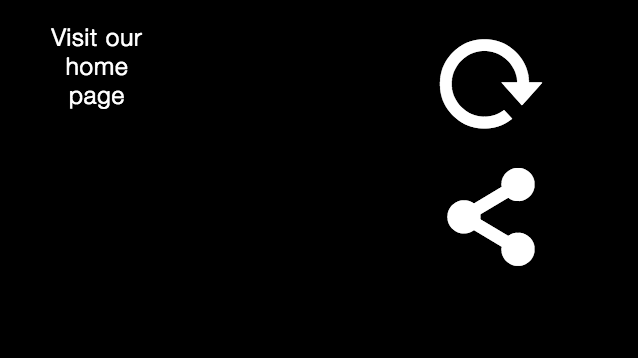
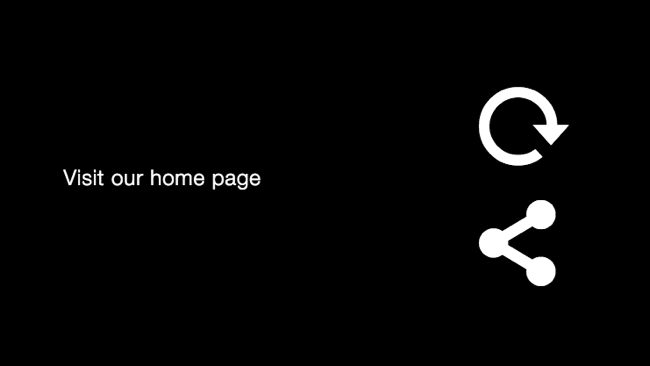
update Custom Endscreen to use relative positioning

diff --git a/en/perform/brightcove-player/guides/custom-endscreen-plugin.html b/en/perform/brightcove-player/guides/custom-endscreen-plugin.html
@@ -131,6 +131,8 @@
       <div id="customize" class="section">
         <h2>Customize the endscreen</h2>
         <p>You can use CSS to customize the appearance of your endscreen. Below are a few examples of what you can do. Make sure to test your implementations to ensure they work with your page content.</p>
+        <p class="BCL-aside">The code in this section uses relative positioning, which can be used in conjunction with a responsive player. To make your player responsive, see the <a href="../../brightcove-player/samples/responsive-sizing.html">Responsive Sizing</a> document or use the <strong>Players</strong> module to set the <strong>Sizing</strong> setting to <strong>Responsive</strong>.</p>
+        
         <p>This is what the default end screen looks like. By default, you will get a restart video button and a social sharing button.</p>
         <div><img src="assets/custom-endscreen/endscreen-default.png" alt="default custom endscreen"></div>
 
@@ -139,10 +141,12 @@
         <p>Instead, since these buttons are XML text files, you can change their size by using the <code>font-size</code> CSS property.</p>
         <p>Use the code below to make both buttons smaller:</p>
         <p><code data-gist-id="869cedee617b8f6a504b" data-gist-hide-footer="true" data-gist-line="49-51"></code></p>
-        <p>Or you can control the size of each button independently:</p>
-        <p><code data-gist-id="869cedee617b8f6a504b" data-gist-hide-footer="true" data-gist-line="54-59"></code></p>
+        <p>Using a percentage value should have the same effect:</p>
+        <p><code data-gist-id="869cedee617b8f6a504b" data-gist-hide-footer="true" data-gist-line="177-179"></code></p>
         <p>The result should look like this:</p>
         <div><img src="assets/custom-endscreen/endscreen-small-buttons.png" alt="small endscreen buttons"></div>
+        <p>Or you can control the size of each button independently:</p>
+        <p><code data-gist-id="869cedee617b8f6a504b" data-gist-hide-footer="true" data-gist-line="54-59"></code></p>    
 
         <h3>Move content below buttons</h3>
         <p>Earlier in this document, you learned how to add content to the endscreen. To review, you can add any HTML to the plugin. The code below adds a link to our homepage to the endscreen:</p>
@@ -150,19 +154,32 @@
         <p>By default, your added content displays above the endscreen buttons:</p>
         <div><img src="assets/custom-endscreen/endscreen-content-above.png" alt="content above endscreen buttons"></div>
         <p>Use the following CSS to position your HTML content below the endscreen buttons:</p>
-        <p><code data-gist-id="869cedee617b8f6a504b" data-gist-hide-footer="true" data-gist-line="67-71"></code></p>
+        <ul>
+          <li>Lines 190-193: Position the buttons from the top. These elements are already centered on the page for you.</li>
+          <li>Lines 194-196: Remove the default padding for the entire overlay to help center your custom text.</li>
+          <li>Lines 197-202: Position your custom text from the bottom and center it horizontally.</li>
+        </ul>
+        <p><code data-gist-id="869cedee617b8f6a504b" data-gist-hide-footer="true" data-gist-line="190-202"></code></p>
         <p>The result should look like this:</p>
         <div><img src="assets/custom-endscreen/endscreen-content-below.png" alt="content below endscreen buttons"></div>
 
         <h3>Display vertical content and buttons</h3>
         <p>You can also change the layout of your HTML content and the endscreen buttons. By default, they are displayed horizontally, with your content above the buttons. The code below floats your content to the left of the buttons and displays the buttons vertically:</p>
-        <p><code data-gist-id="869cedee617b8f6a504b" data-gist-hide-footer="true" data-gist-line="74-82"></code></p>
+        <ul>
+          <li>Lines 205-210: Position the buttons from the top and left. The small width caused the buttons to align vertically.</li>
+          <li>Lines 211-213: Remove the default padding for the entire overlay.</li>
+          <li><p>Lines 214-223: Positions you custom text to the left of the buttons, centered horizontally and vertically in half of the overlay.</p> 
+            <p class="BCL-aside">For details on how to center elements horizontally and vertically, refer to the W3C document on <a href="//www.w3.org/Style/Examples/007/center.en.html">Centering Things</a>.</p></li>
+        </ul>
+        <p><code data-gist-id="869cedee617b8f6a504b" data-gist-hide-footer="true" data-gist-line="205-223"></code></p>
         <p>The result should look like this:</p>
         <div><img src="assets/custom-endscreen/endscreen-vertical.png" alt="vertical content and endscreen buttons"></div>
 
         <p>You can be creative with how your endscreen will look by overriding the default CSS properties. In your browser, inspect the elements to find the element class names and values. For a quick review of how to do this, see the <a href="customize-appearance.html">Customize Player Appearance</a> document.</p>
       </div>
 
+  
+  
       <div id="mailto" class="section video-cloud-only">
         <h2>Use mailto with video name</h2>
         <p>You may wish to allow the viewer of the video to email you a question or comment. You can do this by using an HTML <strong>mailto</strong> link in the custom endscreen, as shown here:</p>

diff --git a/en/video-cloud/brightcove-player/guides/custom-endscreen-plugin.html b/en/video-cloud/brightcove-player/guides/custom-endscreen-plugin.html
@@ -131,6 +131,8 @@
       <div id="customize" class="section">
         <h2>Customize the endscreen</h2>
         <p>You can use CSS to customize the appearance of your endscreen. Below are a few examples of what you can do. Make sure to test your implementations to ensure they work with your page content.</p>
+        <p class="BCL-aside">The code in this section uses relative positioning, which can be used in conjunction with a responsive player. To make your player responsive, see the <a href="../../brightcove-player/samples/responsive-sizing.html">Responsive Sizing</a> document or use the <strong>Players</strong> module to set the <strong>Sizing</strong> setting to <strong>Responsive</strong>.</p>
+        
         <p>This is what the default end screen looks like. By default, you will get a restart video button and a social sharing button.</p>
         <div><img src="assets/custom-endscreen/endscreen-default.png" alt="default custom endscreen"></div>
 
@@ -139,10 +141,12 @@
         <p>Instead, since these buttons are XML text files, you can change their size by using the <code>font-size</code> CSS property.</p>
         <p>Use the code below to make both buttons smaller:</p>
         <p><code data-gist-id="869cedee617b8f6a504b" data-gist-hide-footer="true" data-gist-line="49-51"></code></p>
-        <p>Or you can control the size of each button independently:</p>
-        <p><code data-gist-id="869cedee617b8f6a504b" data-gist-hide-footer="true" data-gist-line="54-59"></code></p>
+        <p>Using a percentage value should have the same effect:</p>
+        <p><code data-gist-id="869cedee617b8f6a504b" data-gist-hide-footer="true" data-gist-line="177-179"></code></p>
         <p>The result should look like this:</p>
         <div><img src="assets/custom-endscreen/endscreen-small-buttons.png" alt="small endscreen buttons"></div>
+        <p>Or you can control the size of each button independently:</p>
+        <p><code data-gist-id="869cedee617b8f6a504b" data-gist-hide-footer="true" data-gist-line="54-59"></code></p>    
 
         <h3>Move content below buttons</h3>
         <p>Earlier in this document, you learned how to add content to the endscreen. To review, you can add any HTML to the plugin. The code below adds a link to our homepage to the endscreen:</p>
@@ -150,19 +154,32 @@
         <p>By default, your added content displays above the endscreen buttons:</p>
         <div><img src="assets/custom-endscreen/endscreen-content-above.png" alt="content above endscreen buttons"></div>
         <p>Use the following CSS to position your HTML content below the endscreen buttons:</p>
-        <p><code data-gist-id="869cedee617b8f6a504b" data-gist-hide-footer="true" data-gist-line="67-71"></code></p>
+        <ul>
+          <li>Lines 190-193: Position the buttons from the top. These elements are already centered on the page for you.</li>
+          <li>Lines 194-196: Remove the default padding for the entire overlay to help center your custom text.</li>
+          <li>Lines 197-202: Position your custom text from the bottom and center it horizontally.</li>
+        </ul>
+        <p><code data-gist-id="869cedee617b8f6a504b" data-gist-hide-footer="true" data-gist-line="190-202"></code></p>
         <p>The result should look like this:</p>
         <div><img src="assets/custom-endscreen/endscreen-content-below.png" alt="content below endscreen buttons"></div>
 
         <h3>Display vertical content and buttons</h3>
         <p>You can also change the layout of your HTML content and the endscreen buttons. By default, they are displayed horizontally, with your content above the buttons. The code below floats your content to the left of the buttons and displays the buttons vertically:</p>
-        <p><code data-gist-id="869cedee617b8f6a504b" data-gist-hide-footer="true" data-gist-line="74-82"></code></p>
+        <ul>
+          <li>Lines 205-210: Position the buttons from the top and left. The small width caused the buttons to align vertically.</li>
+          <li>Lines 211-213: Remove the default padding for the entire overlay.</li>
+          <li><p>Lines 214-223: Positions you custom text to the left of the buttons, centered horizontally and vertically in half of the overlay.</p> 
+            <p class="BCL-aside">For details on how to center elements horizontally and vertically, refer to the W3C document on <a href="//www.w3.org/Style/Examples/007/center.en.html">Centering Things</a>.</p></li>
+        </ul>
+        <p><code data-gist-id="869cedee617b8f6a504b" data-gist-hide-footer="true" data-gist-line="205-223"></code></p>
         <p>The result should look like this:</p>
         <div><img src="assets/custom-endscreen/endscreen-vertical.png" alt="vertical content and endscreen buttons"></div>
 
         <p>You can be creative with how your endscreen will look by overriding the default CSS properties. In your browser, inspect the elements to find the element class names and values. For a quick review of how to do this, see the <a href="customize-appearance.html">Customize Player Appearance</a> document.</p>
       </div>
 
+  
+  
       <div id="mailto" class="section video-cloud-only">
         <h2>Use mailto with video name</h2>
         <p>You may wish to allow the viewer of the video to email you a question or comment. You can do this by using an HTML <strong>mailto</strong> link in the custom endscreen, as shown here:</p>
